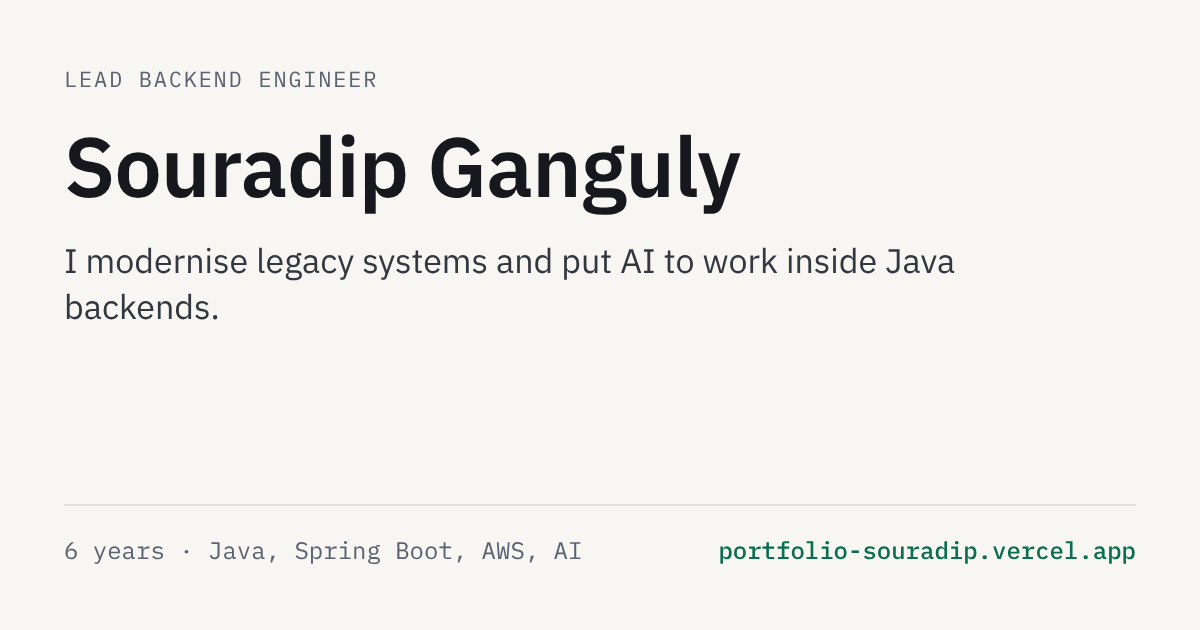
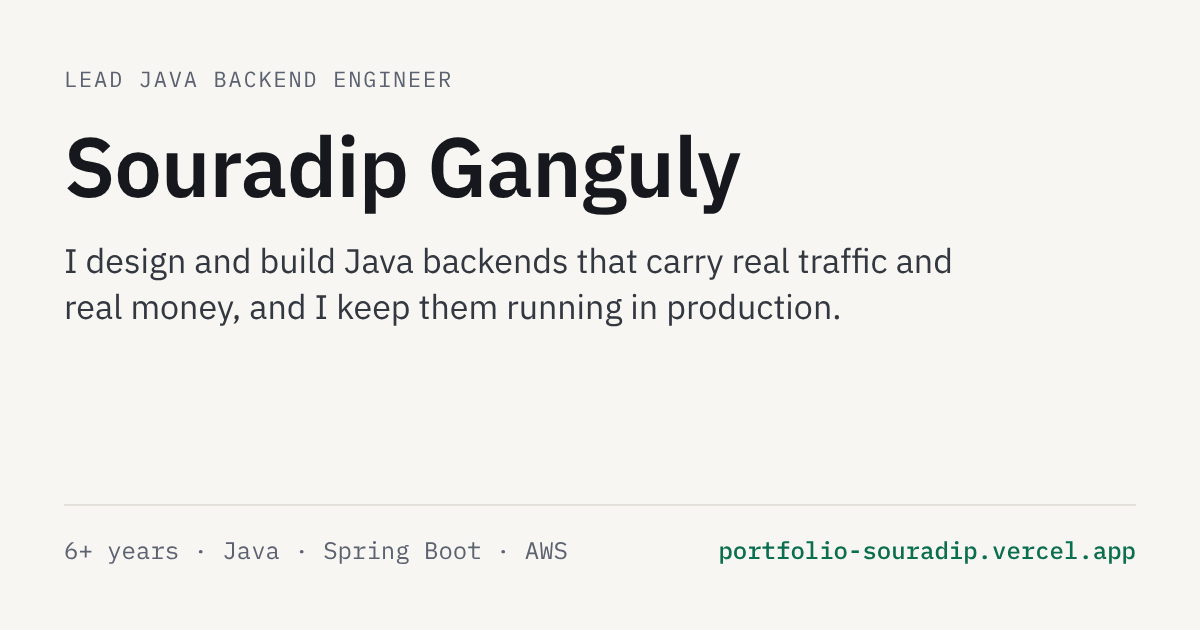
Refresh the social preview image with the new tagline (#7)
* Refresh resume PDF and work recruiter search keywords into the site copy

Claude-Session: https://claude.ai/code/session_015UJzchYfctuZRE5NLPK9PK

* Use the rebuilt resume and drop the old Accolite name from the site

Claude-Session: https://claude.ai/code/session_015UJzchYfctuZRE5NLPK9PK

* Update resume PDF with new header and AI wording

Claude-Session: https://claude.ai/code/session_015UJzchYfctuZRE5NLPK9PK

* Update resume PDF with plainer bullets and a soft skills line

Claude-Session: https://claude.ai/code/session_015UJzchYfctuZRE5NLPK9PK

* Add AI delivery gain and TCS team size to the resume

Claude-Session: https://claude.ai/code/session_015UJzchYfctuZRE5NLPK9PK

* Reword resume bullets flagged by AI detectors

Claude-Session: https://claude.ai/code/session_015UJzchYfctuZRE5NLPK9PK

* Reword the last three lines the AI detectors flagged

Claude-Session: https://claude.ai/code/session_015UJzchYfctuZRE5NLPK9PK

* Rewrite the summary and sync the site with the new resume

Summary now gives a high level view of impact and capability. British
Telecom is written in full, the AI work is one brief impact line, and
service and upstream system names are gone from the site. Sudha's
recommendation now says she managed me as client manager at BT, UK.

Claude-Session: https://claude.ai/code/session_015UJzchYfctuZRE5NLPK9PK

* Put Java in the job title and summary

Claude-Session: https://claude.ai/code/session_015UJzchYfctuZRE5NLPK9PK
[…]

diff --git a/scripts/og.html b/scripts/og.html
@@ -8,18 +8,18 @@
   .eyebrow { font-family: 'IBM Plex Mono', monospace; letter-spacing: .08em; text-transform: uppercase; font-size: 22px; color: #5c6270; }
   h1 { font-size: 84px; margin: 18px 0 18px; letter-spacing: -0.01em; }
   p { font-size: 34px; margin: 0; color: #33373f; max-width: 900px; line-height: 1.35; }
-  .foot { display: flex; justify-content: space-between; align-items: center; font-family: 'IBM Plex Mono', monospace; font-size: 24px; color: #5c6270; border-top: 2px solid #e2e0d8; padding-top: 28px; }
+  .foot { white-space: nowrap; display: flex; justify-content: space-between; align-items: center; font-family: 'IBM Plex Mono', monospace; font-size: 24px; color: #5c6270; border-top: 2px solid #e2e0d8; padding-top: 28px; }
   .foot b { color: #0b6e4f; font-weight: 500; }
 </style>
 </head>
 <body>
   <div class="card">
     <div>
-      <div class="eyebrow">Lead Backend Engineer</div>
+      <div class="eyebrow">Lead Java Backend Engineer</div>
       <h1>Souradip Ganguly</h1>
-      <p>I modernise legacy systems and put AI to work inside Java backends.</p>
+      <p>I design and build Java backends that carry real traffic and real money, and I keep them running in production.</p>
     </div>
-    <div class="foot"><span>6 years · Java, Spring Boot, AWS, AI</span><b>portfolio-souradip.vercel.app</b></div>
+    <div class="foot"><span>6+ years · Java · Spring Boot · AWS</span><b>portfolio-souradip.vercel.app</b></div>
   </div>
 </body>
 </html>
